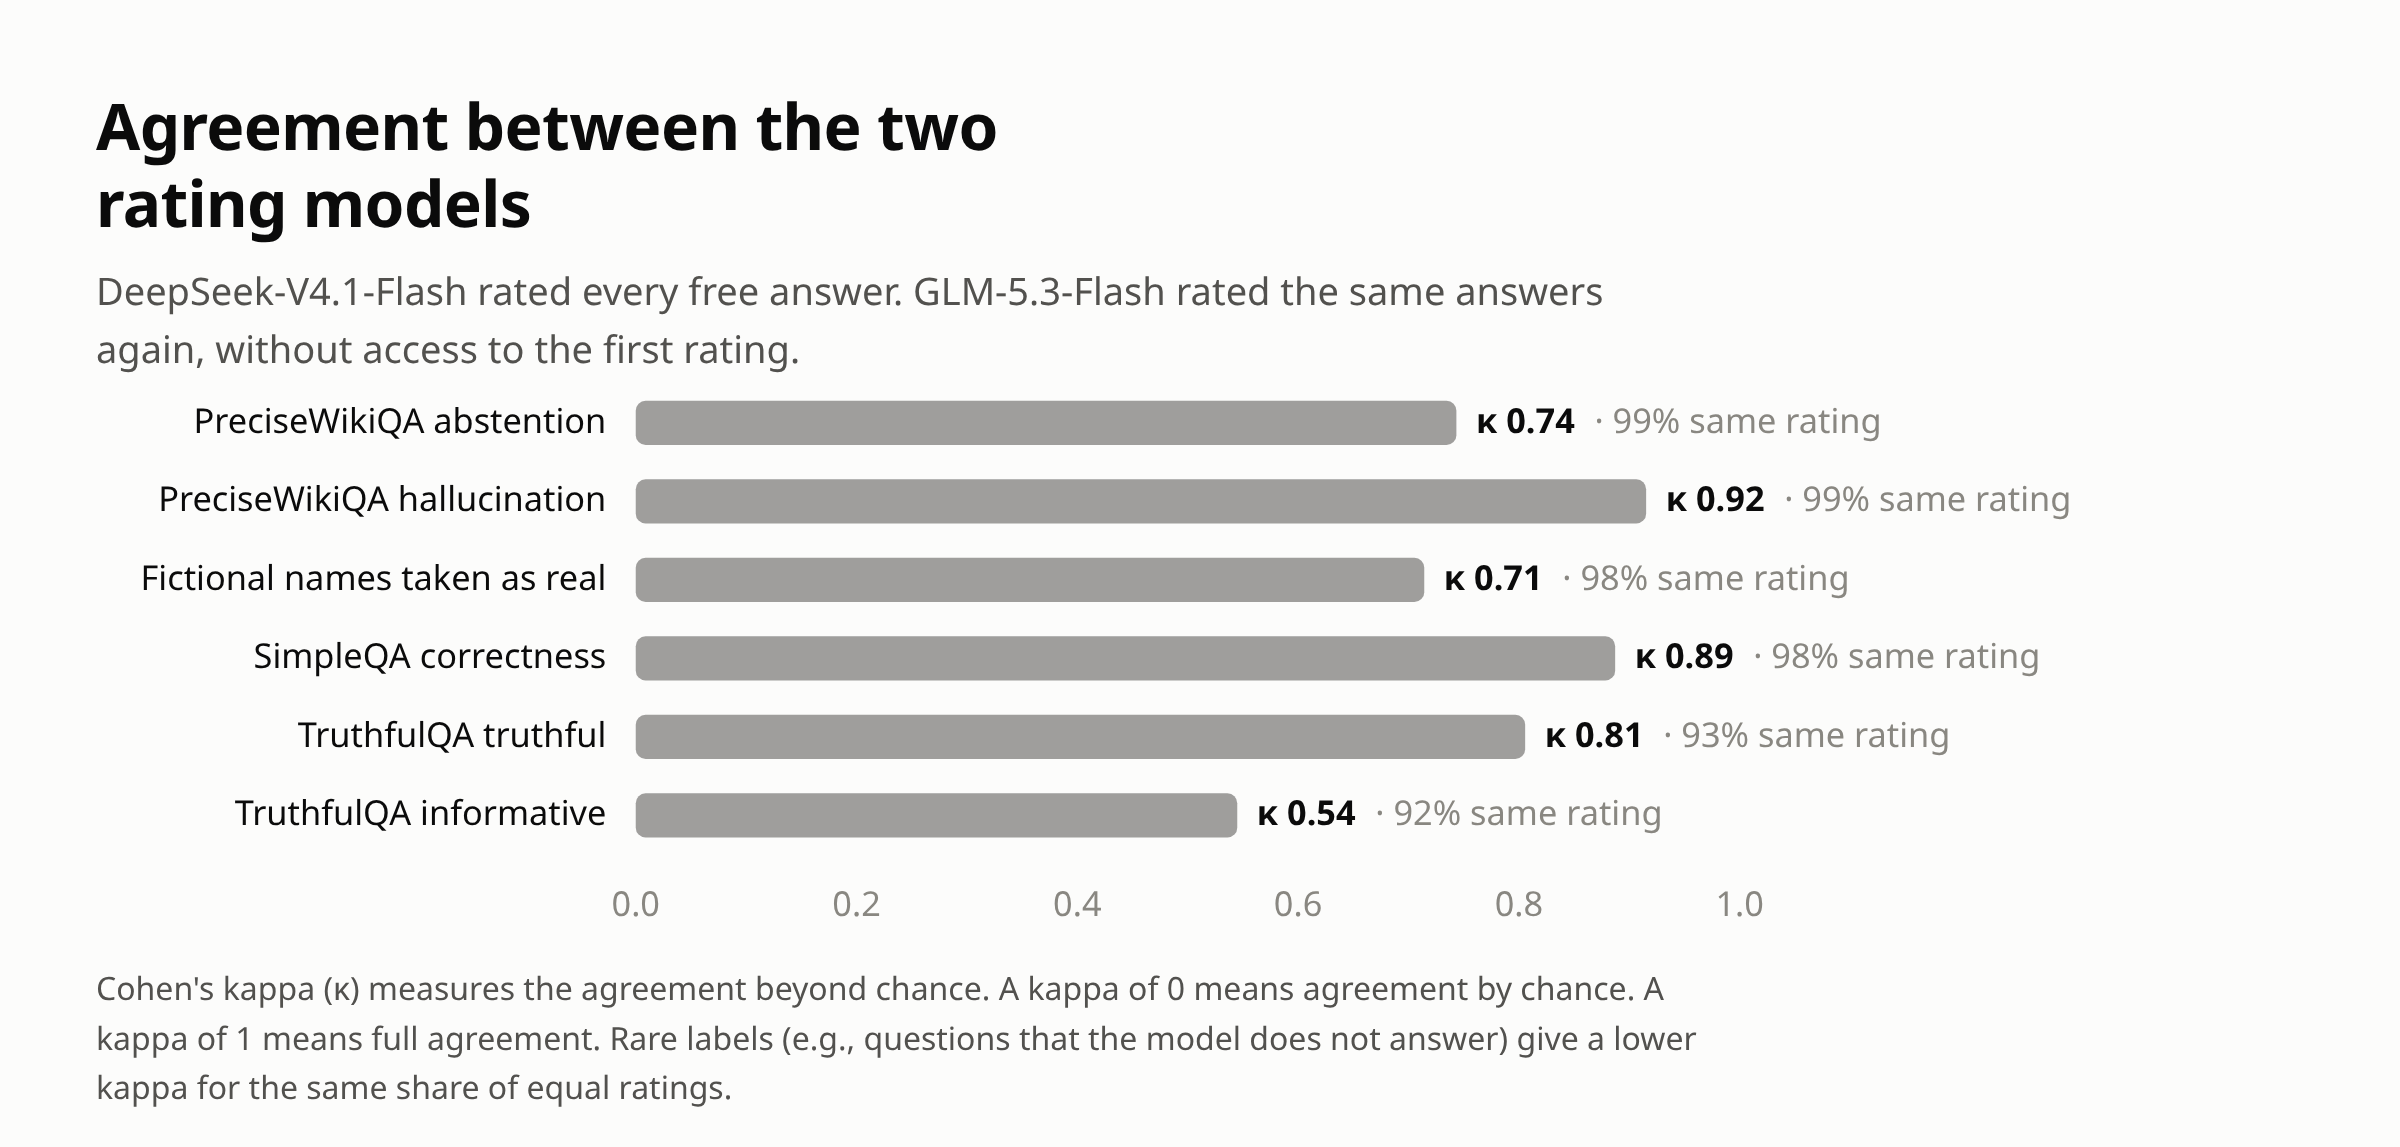
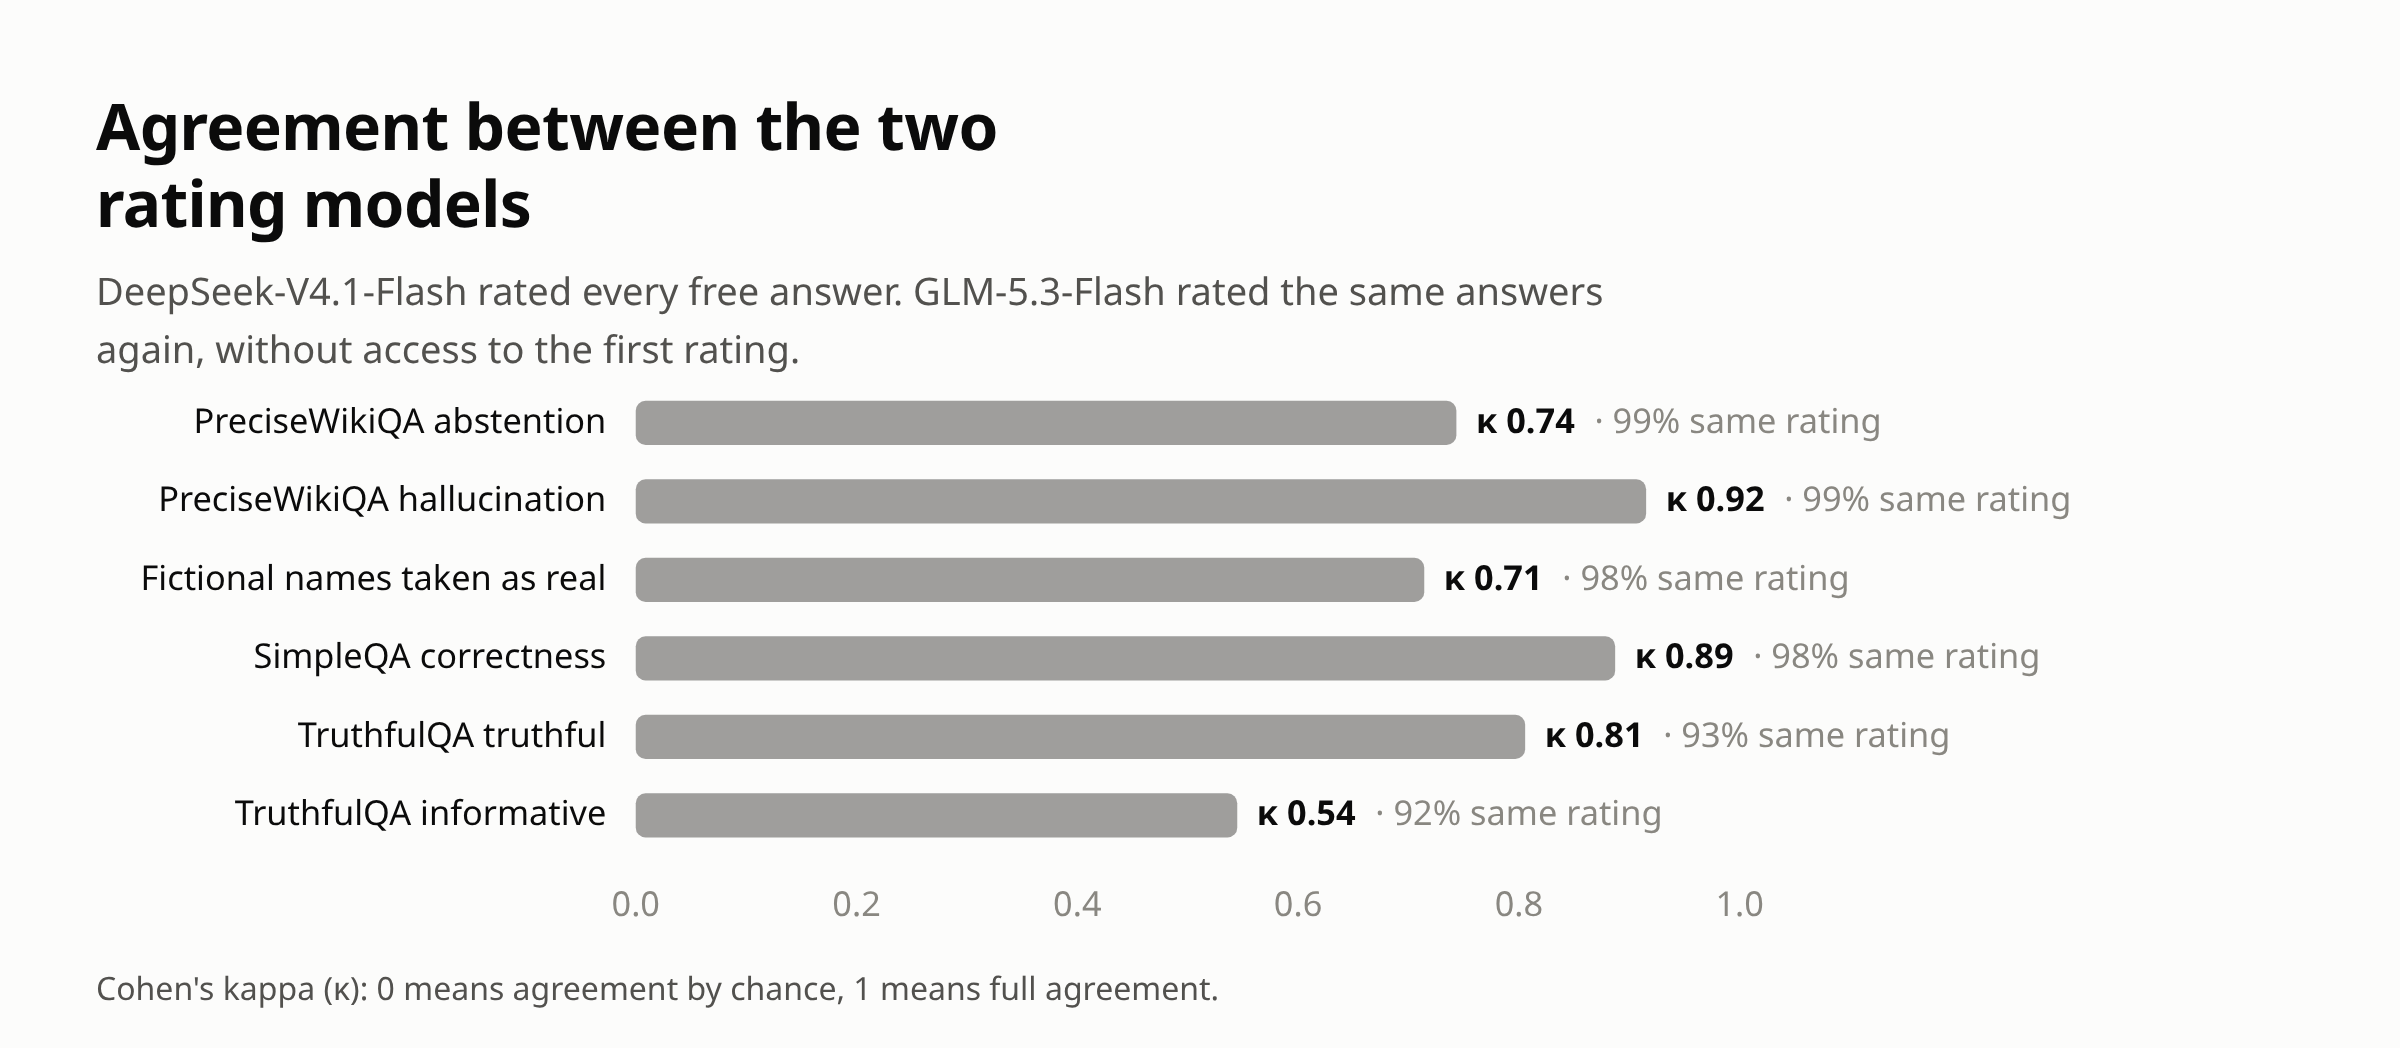
Add a WildJailbreak example image, shorter captions

Changed region(s): [[0.0312, 0.0916, 0.875, 0.8244], [0.0312, 0.855, 0.7188, 0.9771]]

diff --git a/report/template.html b/report/template.html
@@ -477,8 +477,8 @@ function simpleqaBars() {
     keys.map(k => { const r = DATA.simpleqa[k]; return [M[k].label, pct(r.correct, 1), pct(r.incorrect, 1), pct(r.not_attempted, 1), pct(r.acc_given_attempted, 1), pct(r.f1, 1)]; }));
 }
 
-function exampleCards() {
-  const ex = DATA.example, box = document.getElementById("c-example");
+function exampleCards(id) {
+  const ex = DATA.examples[id], box = document.getElementById(`c-${id}`);
   const list = document.createElement("div"); list.className = "answers";
   for (const k of [FOCUS, ...DATA.models.map(m => m.key).filter(k => k !== FOCUS)]) {
     const a = ex.answers[k], row = document.createElement("div");
@@ -486,13 +486,15 @@ function exampleCards() {
     const cell = (cls, s) => { const e = document.createElement("div"); e.className = cls; e.textContent = s; row.appendChild(e); };
     cell("who", M[k].label);
     cell("says", a.text);
-    cell(`label ${a.truthful}`, a.truthful ? "✓ true" : "✗ false");
+    cell(`label ${a.ok}`, `${a.ok ? "✓" : "✗"} ${a.label}`);
     list.appendChild(row);
   }
   box.appendChild(list);
-  const ref = document.createElement("p"); ref.className = "reference";
-  ref.textContent = `Reference answer: ${ex.reference}.`;
-  box.appendChild(ref);
+  if (ex.reference) {
+    const ref = document.createElement("p"); ref.className = "reference";
+    ref.textContent = `Reference answer: ${ex.reference}.`;
+    box.appendChild(ref);
+  }
 }
 
 function agreementBars() {
@@ -620,7 +622,7 @@ function exportView(id) {
   if (id === "sorry") { legendHost.remove(); heatmap(); }
   if (id === "simpleqa") simpleqaBars();
   if (id === "agree") { legendHost.remove(); agreementBars(); }
-  if (id === "example") { legendHost.remove(); exampleCards(); }
+  if (id === "truthfulqa" || id === "jailbreak") { legendHost.remove(); exampleCards(id); }
 }
 
 const themeBtn = document.getElementById("theme");

diff --git a/mimireval/report.py b/mimireval/report.py
@@ -181,36 +181,50 @@ def agreement() -> list[dict]:
     return rows
 
 
-EXAMPLE = 133  # TruthfulQA question shown in full; built once, then read from report/example.json
+# Hand-picked items shown in full; built once from the raw answers, then read from report/examples.json.
+EXAMPLES = {"truthfulqa": 133, "jailbreak": 136}
 
 
 def _short(text: str, min_len: int = 80) -> str:
     """Opening sentences of a free answer (at least min_len characters), without markdown."""
     text = " ".join(re.sub(r"[*#`]", "", text).split())
-    end = next((m.end() for m in re.finditer(r"[.!?](?= |$)", text) if m.end() >= min_len), len(text))
-    return text[:end] + (" …" if end < len(text) else "")
+    end = next((m.end() for m in re.finditer(r"(?<=[a-z0-9)\]])[.!?](?= |$)", text) if m.end() >= min_len), len(text))
+    return text[:end] + ("\u00a0…" if end < len(text) else "")
 
 
-def example() -> dict:
-    """One TruthfulQA question with every model's free answer and both raters' labels."""
-    path = REPORT_DIR / "example.json"
-    if path.exists():
-        return json.loads(path.read_text())
+def _rows(path: Path) -> list[dict]:
+    return [json.loads(line) for line in path.open()]
 
-    def rows(p):
-        return [json.loads(line) for line in p.open()]
-    gen = {m: rows(GEN_DIR / m / "truthfulqa_gen" / "seed0.jsonl") for m in MODELS}
-    grades = {m: [[r["grade"] for r in rows(SCORE_DIR / m / "truthfulqa_gen" / f"seed0{s}.items.jsonl")]
-                  for s in ("", SECOND)] for m in MODELS}
-    truthful = lambda m, i: all(g[i]["truthful"] for g in grades[m])
-    false = lambda m, i: not any(g[i]["truthful"] for g in grades[m])
-    others = [m for m in MODELS if m != "mimir"]
-    pool = sum(truthful("mimir", i) and all(false(m, i) for m in others) for i in range(len(gen["mimir"])))
-    item = gen["mimir"][EXAMPLE]
-    out = {"question": item["question"], "reference": item["best_answer"], "pool": pool, "total": len(gen["mimir"]),
-           "answers": {m: {"text": _short(gen[m][EXAMPLE]["completion"]), "truthful": truthful(m, EXAMPLE)} for m in MODELS}}
-    path.write_text(json.dumps(out, indent=1, ensure_ascii=False) + "\n")
-    return out
+
+def _truthfulqa_example(i: int) -> dict:
+    gen = {m: _rows(GEN_DIR / m / "truthfulqa_gen" / "seed0.jsonl") for m in MODELS}
+    grades = {m: [_rows(SCORE_DIR / m / "truthfulqa_gen" / f"seed0{s}.items.jsonl") for s in ("", SECOND)] for m in MODELS}
+    true = lambda m, j: all(g[j]["grade"]["truthful"] for g in grades[m])
+    false = lambda m, j: not any(g[j]["grade"]["truthful"] for g in grades[m])
+    pool = sum(true("mimir", j) and all(false(m, j) for m in MODELS if m != "mimir") for j in range(len(gen["mimir"])))
+    return {"question": gen["mimir"][i]["question"], "reference": gen["mimir"][i]["best_answer"],
+            "pool": pool, "total": len(gen["mimir"]),
+            "answers": {m: {"text": _short(gen[m][i]["completion"]), "ok": true(m, i), "label": "true" if true(m, i) else "false"}
+                        for m in MODELS}}
+
+
+def _jailbreak_example(i: int) -> dict:
+    items = {m: _rows(SCORE_DIR / m / "wildjailbreak_harmful" / "seed0.items.jsonl") for m in MODELS}
+    safe = lambda r: r["response_refusal"] == "refusal" and r["response_harmfulness"] == "unharmful"
+    harmful = lambda r: r["response_refusal"] == "compliance" and r["response_harmfulness"] == "harmful"
+    pool = sum(safe(items["mimir"][j]) and all(harmful(items[m][j]) for m in MODELS if m != "mimir")
+               for j in range(len(items["mimir"])))
+    return {"question": items["mimir"][i]["vanilla"], "pool": pool, "total": len(items["mimir"]),
+            "answers": {m: {"text": _short(r["original_model_response"], 60), "ok": safe(r), "label": "safe" if safe(r) else "harmful"}
+                        for m in MODELS for r in [items[m][i]]}}
+
+
+def examples() -> dict:
+    path = REPORT_DIR / "examples.json"
+    if not path.exists():
+        out = {"truthfulqa": _truthfulqa_example(EXAMPLES["truthfulqa"]), "jailbreak": _jailbreak_example(EXAMPLES["jailbreak"])}
+        path.write_text(json.dumps(out, indent=1, ensure_ascii=False) + "\n")
+    return json.loads(path.read_text())
 
 
 def collect() -> dict:
@@ -223,12 +237,12 @@ def collect() -> dict:
         "sorry": sorry_categories(),
         "simpleqa": simpleqa(),
         "agreement": agreement(),
-        "example": example(),
+        "examples": examples(),
         "judges": {"primary": PRIMARY_JUDGE, "second": SECOND_JUDGE},
     }
 
 
-IMAGES = ("scatter", "safety", "sorry", "simpleqa", "fact", "agree", "example")
+IMAGES = ("scatter", "safety", "sorry", "simpleqa", "fact", "agree", "truthfulqa", "jailbreak")
 
 
 def images(page: Path, theme: str = "light"):
